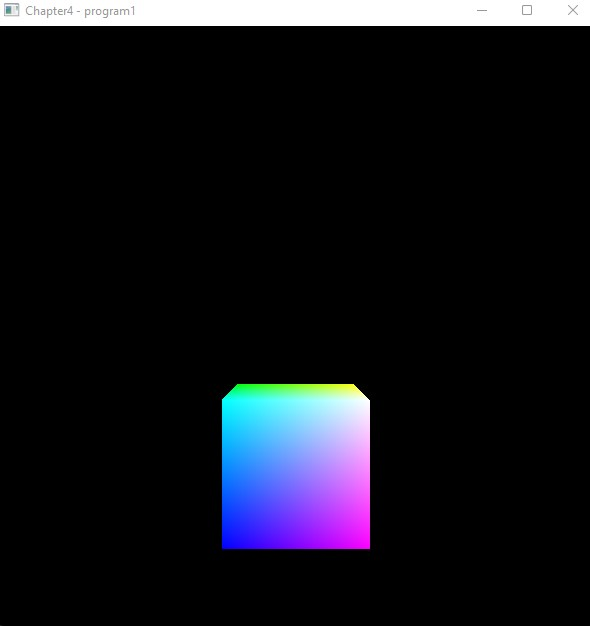
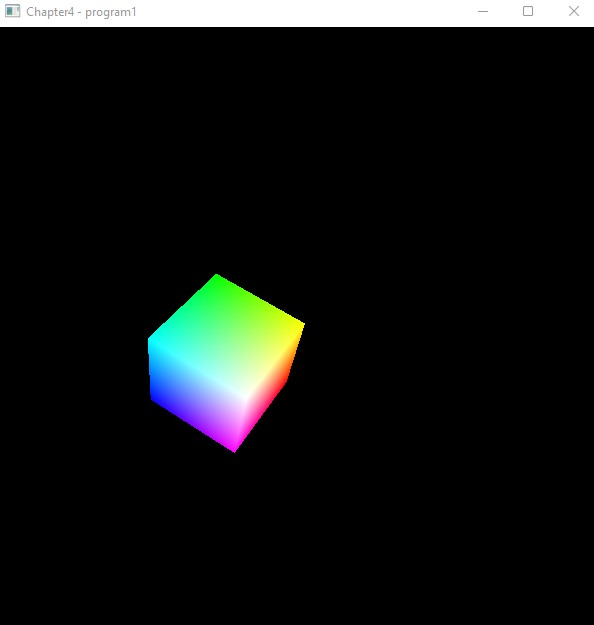
floating colorful cube

diff --git a/ComputerGraphicsProgrammingInOpenGLWithC++_Gordon/main.cpp b/ComputerGraphicsProgrammingInOpenGLWithC++_Gordon/main.cpp
@@ -17,10 +17,9 @@ GLuint vao[numVAOs];
 GLuint vbo[numVBOs];
 GLuint mvLoc, projLoc;
 float cameraX, cameraY, cameraZ;
-float cubeLocX, cubeLocY, cubeLocZ;
 int width, height; // window width and height
 float aspect;
-glm::mat4 pMat, vMat, mMat, mvMat;
+glm::mat4 pMat, vMat, mMat, mvMat, tMat, rMat;
 
 void setupVertices(void) {
 	// 36 vertices, 12 triangles, make 2x2x2 cube placed at origin
@@ -45,54 +44,15 @@ void setupVertices(void) {
 	glBufferData(GL_ARRAY_BUFFER, sizeof(vertexPositions), vertexPositions, GL_STATIC_DRAW);
 }
 
-mat4 buildTranslate(float x, float y, float z) {
-	mat4 trans = mat4(
-		1.0, 0.0, 0.0, 0.0, // first COLUMN, not row
-		0.0, 1.0, 0.0, 0.0,
-		0.0, 0.0, 1.0, 0.0,
-		x, y, z, 1.0);
-	return trans;
-}
-
-mat4 buildRotateX(float rad) {
-	mat4 xrot = mat4(
-		1.0, 0.0, 0.0, 0.0,
-		0.0, cos(rad), sin(rad), 0.0,
-		0.0, -sin(rad), cos(rad), 0.0,
-		0.0, 0.0, 0.0, 1.0
-	);
-	return xrot;
-}
-
-mat4 buildRotateY(float rad) {
-	mat4 yrot = mat4(
-		cos(rad), 0.0, -sin(rad), 0.0,
-		0.0, 1.0, 0.0, 0.0,
-		sin(rad), 0.0, cos(rad), 0.0,
-		0.0, 0.0, 0.0, 1.0
-	);
-	return yrot;
-}
-
-mat4 buildRotateZ(float rad) {
-	mat4 zrot = mat4(
-		cos(rad), sin(rad), 0.0, 0.0,
-		-sin(rad), cos(rad), 0.0, 0.0,
-		0.0, 0.0, 1.0, 0.0,
-		0.0, 0.0, 0.0, 1.0
-	);
-	return zrot;
-}
-
 void init(GLFWwindow* window) {
 	renderingProgram = Utils::createShaderProgram("vertShader.glsl", "fragShader.glsl");
 	cameraX = 0.0f; cameraY = 0.0f; cameraZ = 8.0f;
-	cubeLocX = 0.0f; cubeLocY = -2.0f; cubeLocZ = 0.0f;
 	setupVertices();
 }
 
 void display(GLFWwindow* window, double currentTime) {
 	glClear(GL_DEPTH_BUFFER_BIT);
+	glClear(GL_COLOR_BUFFER_BIT);
 	glUseProgram(renderingProgram);
 
 	// Get the uniform variables locations for the MV and projection matrices
@@ -106,7 +66,11 @@ void display(GLFWwindow* window, double currentTime) {
 
 	// Build view matrix, model matrix; calculate model-view matrix
 	vMat = glm::translate(glm::mat4(1.0f), glm::vec3(-cameraX, -cameraY, -cameraZ));
-	mMat = glm::translate(glm::mat4(1.0f), glm::vec3(cubeLocX, cubeLocY, cubeLocZ));
+	tMat = glm::translate(glm::mat4(1.0f), glm::vec3(sin(0.35f * currentTime) * 2.0f, cos(0.52f * currentTime) * 2.0f, sin(0.7f * currentTime) * 2.0f));
+	rMat = glm::rotate(glm::mat4(1.0f), 1.75f * (float)currentTime, glm::vec3(0.0f, 1.0f, 0.0f));
+	rMat = glm::rotate(rMat, 1.75f * (float)currentTime, glm::vec3(1.0f, 0.0f, 0.0f));
+	rMat = glm::rotate(rMat, 1.75f * (float)currentTime, glm::vec3(0.0f, 0.0f, 1.0f));
+	mMat = tMat * rMat;
 	mvMat = vMat * mMat;
 
 	// Copy perspective and MV matrices to corresponding uniform variables
